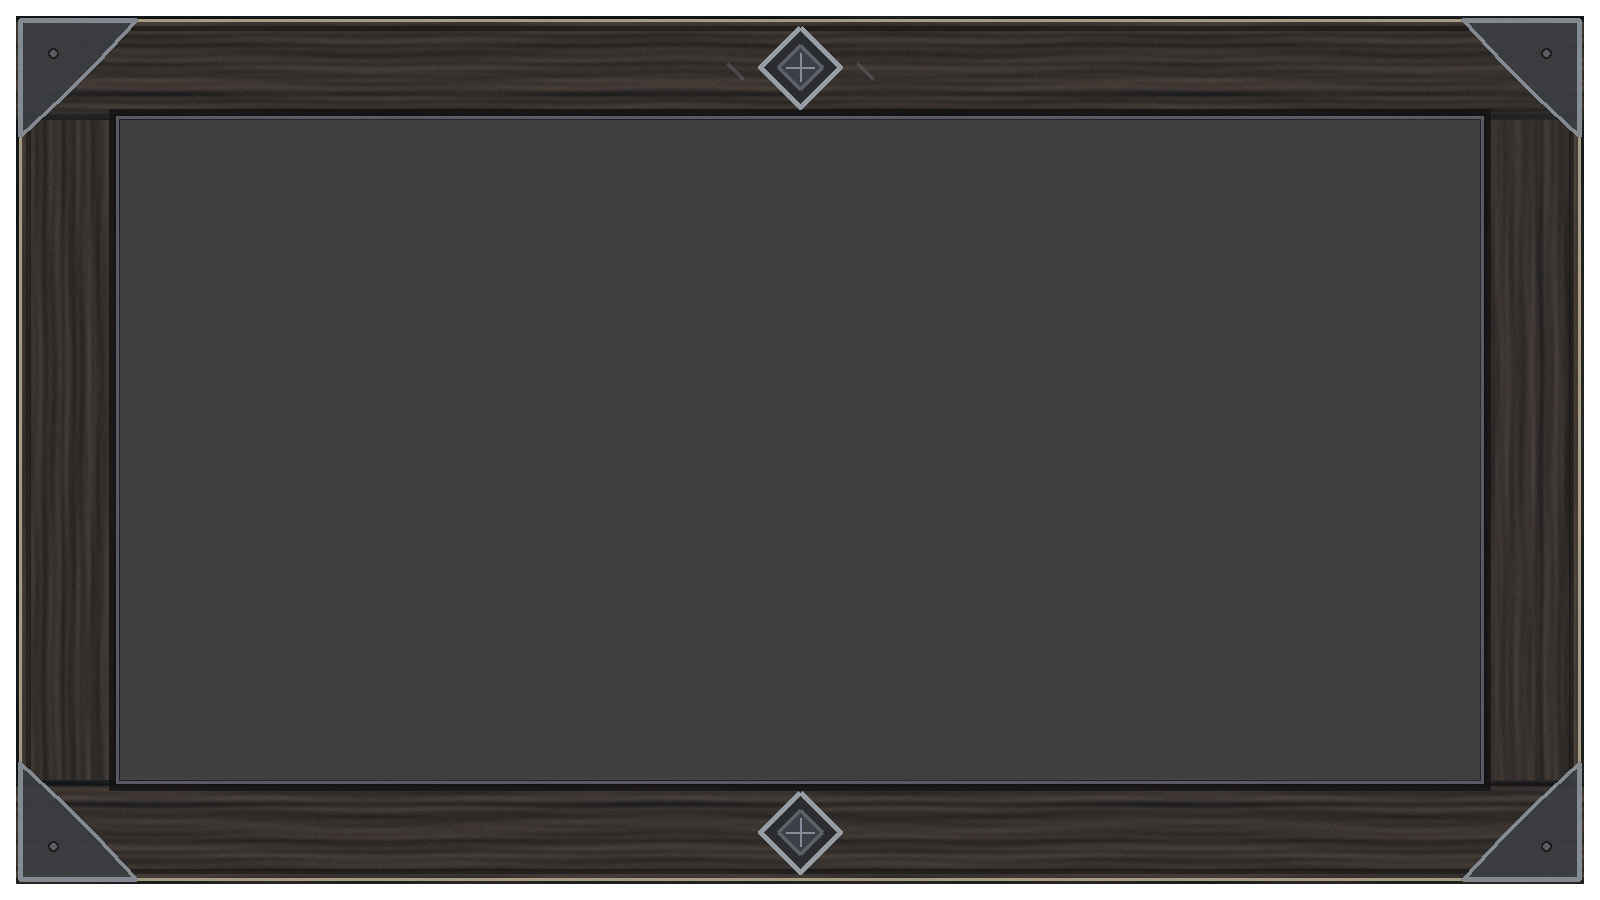
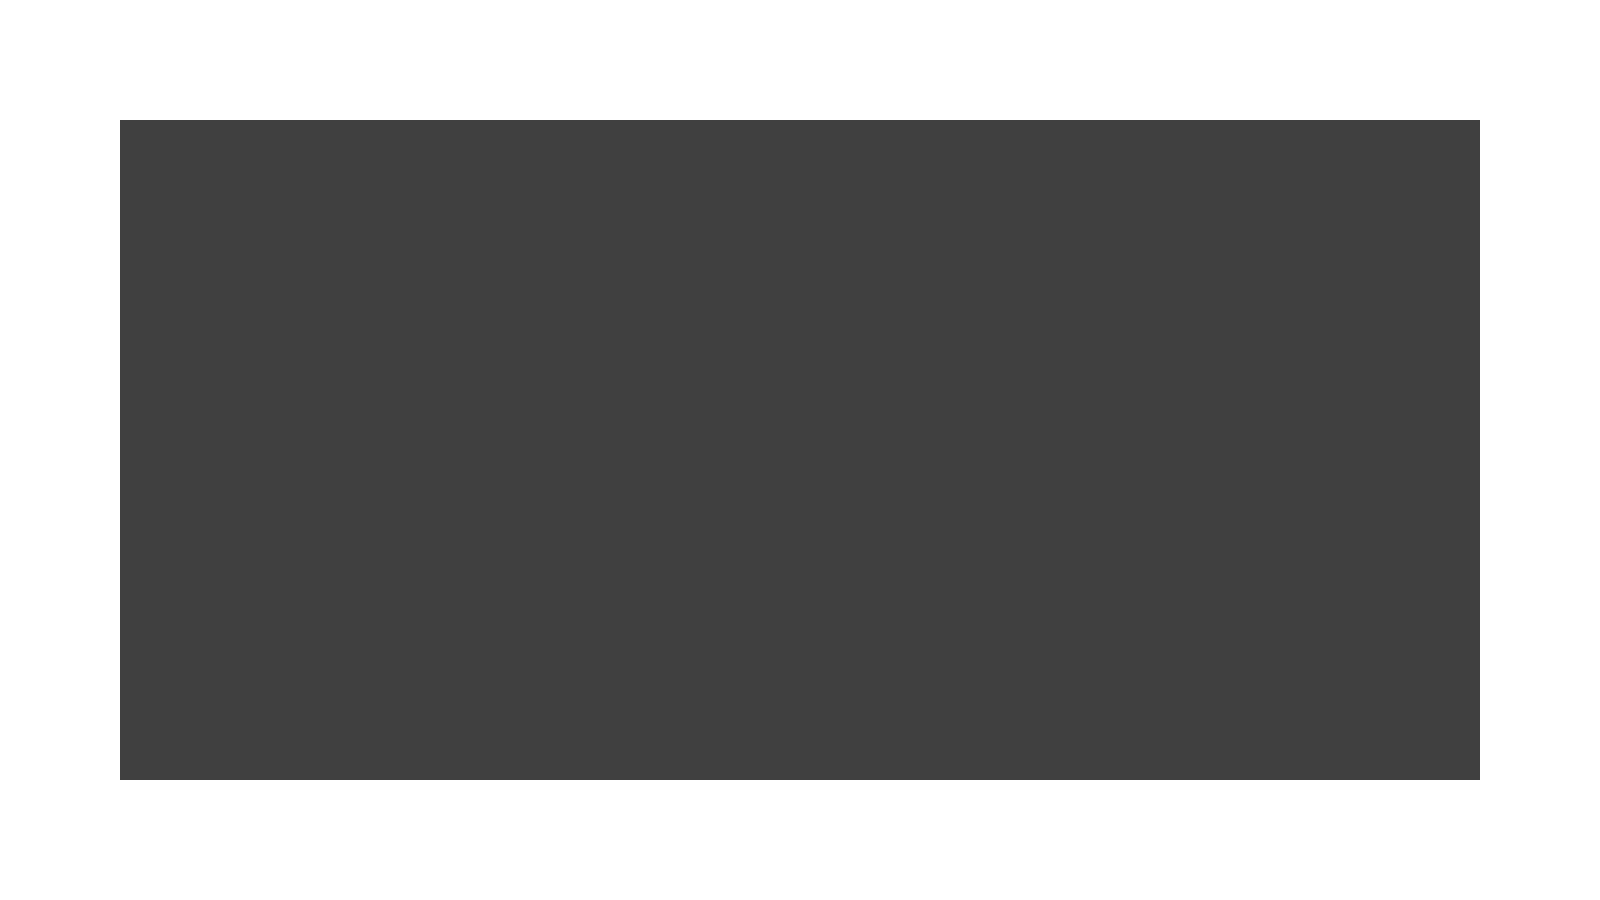
update

diff --git a/server/src/index.ts b/server/src/index.ts
@@ -229,10 +229,12 @@ function applyRoleEffects(effects: readonly RoleEffect[]): void {
   for (const targetId of resolved.revealed) {
     const roleId = gameRolesByAccount.get(targetId) ?? null;
     roleManager.publishFrameOnReveal(targetId, roleId);
+    const targetSocketId = players.find(p => p.userRole === "player" && accountKey(p.name) === targetId)?.id;
+    // Später: gameAnimations.play("captain-reveal", targetSocketId ? [targetSocketId] : [], players.map(p => p.id));
     const roleName = roleId ? roleManager.getRole(roleId)?.config.name ?? roleId : "Dorfbewohner";
     for (const receiver of players) {
       io.to(receiver.id).emit("role:revealed", {
-        playerId: players.find(p => p.userRole === "player" && accountKey(p.name) === targetId)?.id ?? null,
+        playerId: targetSocketId ?? null,
         name: playerAccounts.get(targetId)?.name ?? "Spieler",
         roleId,
         roleName,
@@ -468,7 +470,7 @@ function finishIfWinner(checkpoint: WinCheckpoint): boolean {
 }
 
 const sceneSettings = {
-  gmRoleFramesPermanent: false, // GM sieht wahre Rollen nachts immer; tagsüber optional
+  hideControllerRoleFramesDuringDay: false,
   blockNightOutsideOwnPhase: false,
 };
 
@@ -478,8 +480,8 @@ function sendSceneSettingsTo(viewer: Player): void {
     viewer.isAlive && viewer.gameRole !== null && phaseManager.getActiveRoleIds().includes(viewer.gameRole)
   );
   io.to(viewer.id).emit("scene:viewer-settings", {
-    revealGamemasterRoles: viewer.userRole === "gamemaster" &&
-      (sceneSettings.gmRoleFramesPermanent || isNight),
+    revealGamemasterRoles: isController(viewer) &&
+      !(sceneSettings.hideControllerRoleFramesDuringDay && phaseManager.currentPhase === "day"),
     maskNightCameras: isNight && sceneSettings.blockNightOutsideOwnPhase && !canSeeNightCameras,
   });
   if (viewer.userRole === "gamemaster") {
@@ -574,11 +576,12 @@ function syncRoleNotebooks(): void {
 
 function sendVisibleRoleFramesTo(receiver: Player): void {
   const viewer = receiver.userRole === "player" ? roleActionPlayer(receiver) : null;
-  const gmVisible = sceneSettings.gmRoleFramesPermanent || phaseManager.currentPhase === "night";
+  const controllerVisible = isController(receiver) &&
+    !(sceneSettings.hideControllerRoleFramesDuringDay && phaseManager.currentPhase === "day");
   const visible: Record<string, string> = {};
   for (const target of players) {
     if (target.userRole !== "player") continue;
-    const frame = receiver.userRole === "gamemaster" && gmVisible
+    const frame = controllerVisible
       ? roleManager.getFrameFilename(target.gameRole)
       : roleManager.getVisibleFrame(viewer, roleActionPlayer(target));
     if (frame) visible[target.id] = frame;
@@ -591,9 +594,10 @@ function syncVisibleRoleFrames(): void {
 }
 
 function sendLoverStateTo(receiver: Player): void {
-  const keys = receiver.userRole === "player" && relationships.getPartner(accountKey(receiver.name))
-    ? relationships.getLovers() ?? []
-    : receiver.userRole !== "player" ? relationships.getLovers() ?? [] : [];
+  const canSee = receiver.userRole !== "player" ||
+    (roundParticipantKeys.has(accountKey(receiver.name)) &&
+      (receiver.gameRole === "cupid" || relationships.getPartner(accountKey(receiver.name)) !== null));
+  const keys = canSee ? relationships.getLovers() ?? [] : [];
   const markedPlayerIds = keys.map(key =>
     players.find(p => p.userRole === "player" && accountKey(p.name) === key)?.id,
   ).filter((id): id is string => Boolean(id));
@@ -1312,9 +1316,9 @@ io.on("connection", (socket) => {
     const data = input as Record<string, unknown>;
     const keys = Object.keys(data);
     if (keys.length !== 1 ||
-        !["gmRoleFramesPermanent", "blockNightOutsideOwnPhase"].includes(keys[0]) ||
+        !["hideControllerRoleFramesDuringDay", "blockNightOutsideOwnPhase"].includes(keys[0]) ||
         typeof data[keys[0]] !== "boolean") return;
-    if (keys[0] === "gmRoleFramesPermanent") sceneSettings.gmRoleFramesPermanent = data[keys[0]] as boolean;
+    if (keys[0] === "hideControllerRoleFramesDuringDay") sceneSettings.hideControllerRoleFramesDuringDay = data[keys[0]] as boolean;
     else sceneSettings.blockNightOutsideOwnPhase = data[keys[0]] as boolean;
     syncSceneSettings();
   });
@@ -1386,10 +1390,23 @@ io.on("connection", (socket) => {
     syncRoleStates();
   });
 
+  socket.on("lovers:state:request", () => {
+    const receiver = participant(socket.id);
+    if (receiver) sendLoverStateTo(receiver);
+  });
+
+  socket.on("werewolf-vote:request", () => {
+    const receiver = participant(socket.id);
+    if (receiver) sendWerewolfVotesTo(receiver);
+  });
+
   // Eigene Rollenaktion abrufen.
   socket.on("role:state:request", () => {
     const actor = participant(socket.id);
     if (actor) sendRoleState(actor);
+  });
+  socket.on("role:progress:request", () => {
+    if (isController(participant(socket.id))) sendRoleProgress();
   });
 
   // Einheitliche Auswahl für alle Rollen.
@@ -1421,6 +1438,16 @@ io.on("connection", (socket) => {
     syncWerewolfVotes();
   });
 
+  // Bestätigte Effekte verarbeiten
+  function handleConfirmationEffects(effects: readonly RoleEffect[], phase: RoleActionPhase): void {
+    if (phase.period === "night") {
+      applyRelationshipLinks(effects);
+      nightState.record(effects.filter(effect => effect.type !== "link-lovers"));
+    } else {
+      applyRoleEffects(effects);
+    }
+  }
+
   // Auswahl sperren und Fortschritt nur an Spielleitung senden.
   socket.on("role:confirm", () => {
     const actor = participant(socket.id);
@@ -1433,6 +1460,7 @@ io.on("connection", (socket) => {
       return;
     }
 
+    if (result.effects?.length) handleConfirmationEffects(result.effects, phase);
     socket.emit("role:confirmed");
     sendRoleState(actor);
     sendRoleProgress();
@@ -1450,13 +1478,17 @@ io.on("connection", (socket) => {
       return;
     }
     if (result.effects?.length) {
-      if (phase.period === "night") nightState.record(result.effects);
+      if (phase.period === "night" && roleManager.getRole(actor.gameRole ?? "")?.config.buttons?.night
+        ?.some(button => button.id === buttonId && button.kind === "confirm")) {
+        handleConfirmationEffects(result.effects, phase);
+      } else if (phase.period === "night") nightState.record(result.effects);
       else applyRoleEffects(result.effects);
     }
     if (phase.period === "day") syncDayVotes();
     socket.emit("role:action:success", { buttonId });
     sendRoleState(actor);
     sendRoleProgress();
+    syncWerewolfVotes();
   });
 
   // Dorfabstimmung

diff --git a/client/src/hooks/usePhaseRemoteHost.ts b/client/src/hooks/usePhaseRemoteHost.ts
@@ -19,6 +19,7 @@ export function usePhaseRemoteHost(userRole: UserRole, isLoggedIn: boolean) {
   const [status, setStatus] = useState<PhaseControlStatus | null>(null);
   const [distribution, setDistribution] = useState<DistributionStatus | null>(null);
   const [vote, setVote] = useState<PhaseControlVote | null>(null);
+  const [roleProgress, setRoleProgress] = useState<{ confirmed: number; total: number } | null>(null);
   const [error, setError] = useState("");
   const [connected, setConnected] = useState(socket.connected);
 
@@ -26,6 +27,7 @@ export function usePhaseRemoteHost(userRole: UserRole, isLoggedIn: boolean) {
     if (!enabled) {
       setStatus(null);
       setVote(null);
+      setRoleProgress(null);
       setDistribution(null);
       setError("");
       return;
@@ -35,6 +37,9 @@ export function usePhaseRemoteHost(userRole: UserRole, isLoggedIn: boolean) {
     };
     const onVote = (value: PhaseControlVote) => {
       if (value && (value.state === "idle" || value.state === "open" || value.state === "closed")) setVote(value);
+    };
+    const onRoleProgress = (value: { confirmed: number; total: number }) => {
+      if (Number.isInteger(value?.confirmed) && Number.isInteger(value?.total)) setRoleProgress(value);
     };
     const onDistribution = (value: DistributionStatus) => {
       if (value && typeof value.enabled === "boolean" &&
@@ -50,11 +55,13 @@ export function usePhaseRemoteHost(userRole: UserRole, isLoggedIn: boolean) {
         socket.emit("phase:control:request");
         socket.emit("day-vote:request");
         socket.emit("role-distribution:request");
+        socket.emit("role:progress:request");
       }
     };
     const onDisconnect = () => setConnected(false);
     socket.on("phase:step:changed", onStatus);
     socket.on("day-vote:status", onVote);
+    socket.on("role:progress", onRoleProgress);
     socket.on("role-distribution:status", onDistribution);
     socket.on("role-distribution:error", onError);
     socket.on("phase:error", onError);
@@ -65,6 +72,7 @@ export function usePhaseRemoteHost(userRole: UserRole, isLoggedIn: boolean) {
     return () => {
       socket.off("phase:step:changed", onStatus);
       socket.off("day-vote:status", onVote);
+      socket.off("role:progress", onRoleProgress);
       socket.off("role-distribution:status", onDistribution);
       socket.off("role-distribution:error", onError);
       socket.off("phase:error", onError);
@@ -74,7 +82,7 @@ export function usePhaseRemoteHost(userRole: UserRole, isLoggedIn: boolean) {
     };
   }, [enabled]);
 
-  const view: PhaseControlView = useMemo(() => ({ status, vote, connected: enabled && connected, error }), [status, vote, connected, enabled, error]);
+  const view: PhaseControlView = useMemo(() => ({ status, vote, roleProgress, connected: enabled && connected, error }), [status, vote, roleProgress, connected, enabled, error]);
   const updateDistribution = useCallback((update: DistributionUpdate) => {
     if (!enabled || !socket.connected) return;
     socket.emit("role-distribution:update", update);

diff --git a/client/src/components/AdminFrameSettings.tsx b/client/src/components/AdminFrameSettings.tsx
@@ -3,11 +3,11 @@ import { socket } from "../socket";
 import "./AdminFrameSettings.css";
 
 type Settings = {
-  gmRoleFramesPermanent: boolean;
+  hideControllerRoleFramesDuringDay: boolean;
   blockNightOutsideOwnPhase: boolean;
 };
 const initial: Settings = {
-  gmRoleFramesPermanent: false,
+  hideControllerRoleFramesDuringDay: false,
   blockNightOutsideOwnPhase: false,
 };
 
@@ -15,7 +15,7 @@ export default function AdminFrameSettings() {
   const [settings, setSettings] = useState(initial);
   useEffect(() => {
     const onSettings = (payload: Settings) => {
-      if (typeof payload?.gmRoleFramesPermanent !== "boolean" ||
+      if (typeof payload?.hideControllerRoleFramesDuringDay !== "boolean" ||
           typeof payload?.blockNightOutsideOwnPhase !== "boolean") return;
       setSettings(payload);
     };
@@ -34,10 +34,10 @@ export default function AdminFrameSettings() {
   return <section className="admin-frame-settings">
     <h2>🖼 Kamerarahmen</h2>
     <label className="admin-frame-settings__option">
-      <input type="checkbox" checked={settings.gmRoleFramesPermanent}
-        onChange={e => toggle("gmRoleFramesPermanent", e.target.checked)} />
-      <span><strong>Echte Rollenrahmen beim Gamemaster dauerhaft anzeigen</strong>
-        <small>Nachts sieht der Gamemaster die echten Rollen immer – auch wenn dieser Schalter aus ist.</small></span>
+      <input type="checkbox" checked={settings.hideControllerRoleFramesDuringDay}
+        onChange={e => toggle("hideControllerRoleFramesDuringDay", e.target.checked)} />
+      <span><strong>Rollenrahmen tagsüber bei Spielleitung ausblenden</strong>
+        <small>Erzähler und Gamemaster sehen Rollenrahmen standardmäßig immer. Mit Haken tagsüber nur öffentlich sichtbare Rahmen.</small></span>
     </label>
     <label className="admin-frame-settings__option">
       <input type="checkbox" checked={settings.blockNightOutsideOwnPhase}

diff --git a/client/src/components/CameraLayer.tsx b/client/src/components/CameraLayer.tsx
@@ -85,7 +85,8 @@ function CameraTile({ player, own, stream, approved, frameName, frameOverlayName
         <div className="camera-layer__vote-icons camera-layer__vote-icons--werewolf" aria-label="Werwolf-Stimmen">
           {wolfVotes.slice(0, 6).map((entry, index) => (
             <img key={index} src={werewolfVoteIcon} alt={entry.confirmed ? "Bestätigte Stimme" : "Vorläufige Stimme"}
-              className={entry.confirmed ? undefined : "camera-layer__vote--pending"} draggable={false} />
+              className={entry.confirmed ? "camera-layer__vote--confirmed" : "camera-layer__vote--pending"}
+              draggable={false} />
           ))}
           {wolfVotes.length > 6 && <span className="camera-layer__vote-more">+{wolfVotes.length - 6}</span>}
         </div>
@@ -130,17 +131,11 @@ export default function CameraLayer({ players, roleAction = null, visibleFrames 
     const stream = own ? localStream : remoteStreams[player.id];
     const approved = approvedIds.includes(player.id);
     const nightMasked = phase === "night" && maskNightCameras && !own;
-    const blocked = nightMasked || (!own && !approved);
-
     let frameName = visibleFrames[player.id] ?? "frame-default.png";
-
-    if (player.userRole === "storyteller") {
-      frameName = "frame-storyteller.png";
-    } else if (!blocked && !player.isAlive) {
-      frameName = "frame-dead.png";
-    }
-
-    const frameOverlayName = blocked ? "frame-blocked.png" : undefined;
+    let frameOverlayName: string | undefined;
+    if (player.userRole === "storyteller") frameName = "frame-storyteller.png";
+    else if (!player.isAlive) frameName = "frame-dead.png";
+    if (nightMasked || (!own && !approved)) frameOverlayName = "frame-blocked.png";
 
     const nightSelectable = Boolean(phase === "night" && viewerRole === "player" &&
       roleAction?.active && !roleAction.confirmed && roleAction.targetIds.includes(player.id));

diff --git a/client/src/components/PhaseRemotePanel.tsx b/client/src/components/PhaseRemotePanel.tsx
@@ -14,6 +14,7 @@ export type PhaseControlVote = {
 };
 export type PhaseControlView = {
   status: PhaseControlStatus | null;
+  roleProgress: { confirmed: number; total: number } | null;
   vote: PhaseControlVote | null;
   connected: boolean;
   error: string;
@@ -81,6 +82,12 @@ export default function PhaseRemotePanel({ view, onAdvance, onRepeat }: {
           ))}
         </ol>
       )}
+      {phase === "night" && view.roleProgress && view.roleProgress.total > 0 &&
+        <p className="phase-remote__notice" role="status">
+          {view.roleProgress.confirmed >= view.roleProgress.total
+            ? "Alle Rollenaktionen bestätigt – Weiter möglich"
+            : `Rollenaktionen bestätigt: ${view.roleProgress.confirmed}/${view.roleProgress.total}`}
+        </p>}
       {!view.connected && <p className="phase-remote__notice" role="status">Hauptfenster nicht verbunden.</p>}
       {view.error && <p className="phase-remote__error" role="alert">{view.error}</p>}
       <div className="phase-remote__actions">

diff --git a/server/src/roles/cupid/actions.ts b/server/src/roles/cupid/actions.ts
@@ -12,16 +12,11 @@ export const actions: RoleActions = {
   },
   getSelection: actorId => picks.get(actorId)?.at(-1) ?? null,
   getSelections: actorId => picks.get(actorId) ?? [],
-  onNightStepEnd: ({ players, confirmedActorIds }) => {
-    const cupid = players.find(p => p.isAlive && p.gameRole === "cupid" &&
-      confirmedActorIds.has(p.id));
-    if (!cupid) return [];
-    const chosen = picks.get(cupid.id) ?? [];
-    if (chosen.length !== 2 || chosen[0] === chosen[1] ||
-        chosen.some(id => !players.some(p => p.id === id && p.isAlive && p.userRole === "player"))) {
-      return [];
+  onConfirm: ({ targetIds }) => {
+    if (targetIds.length !== 2 || targetIds[0] === targetIds[1]) {
+      return { ok: false, reason: "Zwei unterschiedliche Spieler auswählen." };
     }
-    return [{ type: "link-lovers", targetIds: [chosen[0], chosen[1]] }];
+    return { ok: true, effects: [{ type: "link-lovers", targetIds: [targetIds[0], targetIds[1]] }] };
   },
   reset: () => picks.clear(),
 };

diff --git a/server/src/roles/RoleTypes.ts b/server/src/roles/RoleTypes.ts
@@ -138,6 +138,12 @@ export type RoleSelectContext = {
   round: number;
 };
 
+export type RoleConfirmContext = {
+  actorId: string;
+  targetIds: readonly string[];
+  round: number;
+};
+
 export type RoleEventContext = {
   round: number;
   players: readonly RoleActionPlayer[];
@@ -154,6 +160,7 @@ export type RoleActions = {
   select?: (context: RoleSelectContext) => RoleActionResult;
   getSelection?: (actorId: string) => string | null;
   getSelections?: (actorId: string) => readonly string[];
+  onConfirm?: (context: RoleConfirmContext) => RoleActionResult;
   reset?: () => void;
   onNightStart?: (context: RoleEventContext) => readonly RoleEffect[];
   onNightAction?: (context: RoleActionContext) => RoleActionResult;

diff --git a/server/src/roles/RoleManager.ts b/server/src/roles/RoleManager.ts
@@ -267,8 +267,12 @@ export class RoleManager {
     if (selected.length !== (role.config.selection?.targetCount ?? 1)) {
       return { ok: false, reason: "Bitte alle Ziele auswählen." };
     }
+    const confirmed = role.actions.onConfirm?.({
+      actorId: actor.id, targetIds: selected, round: phase.round,
+    });
+    if (confirmed && !confirmed.ok) return confirmed;
     this.confirmations.confirm(actor.id);
-    return { ok: true };
+    return confirmed ?? { ok: true };
   }
 
   getConfirmationProgress(

diff --git a/client/src/components/PhaseRemoteWindow.tsx b/client/src/components/PhaseRemoteWindow.tsx
@@ -4,7 +4,7 @@ import RoleDistributionSettings, { type DistributionStatus, type DistributionUpd
 import "./PhaseRemoteWindow.css";
 
 const CHANNEL = "werwolf-phase-remote-v1";
-const empty: PhaseControlView = { status: null, vote: null, connected: false, error: "" };
+const empty: PhaseControlView = { status: null, vote: null, roleProgress: null, connected: false, error: "" };
 
 type HostMessage = { channel: typeof CHANNEL; type: "state"; view: PhaseControlView; distribution?: DistributionStatus | null };
 

diff --git a/client/src/components/CameraLayer.css b/client/src/components/CameraLayer.css
@@ -187,8 +187,13 @@
   transform: translateY(-50%);
   object-fit: contain;
   pointer-events: none;
+  color: #ff6b9c;
+  font-size: clamp(20px, 3vw, 40px);
+  text-align: center;
+  text-shadow: 0 1px 5px #000;
 }
 
 /* Werwolf-Stimmen */
-.camera-layer__vote-icons--werewolf { bottom: 6%; }
+.camera-layer__vote-icons--werewolf { bottom: 0; }
 .camera-layer__vote--pending { opacity: .45; }
+.camera-layer__vote--confirmed { opacity: 1; }
